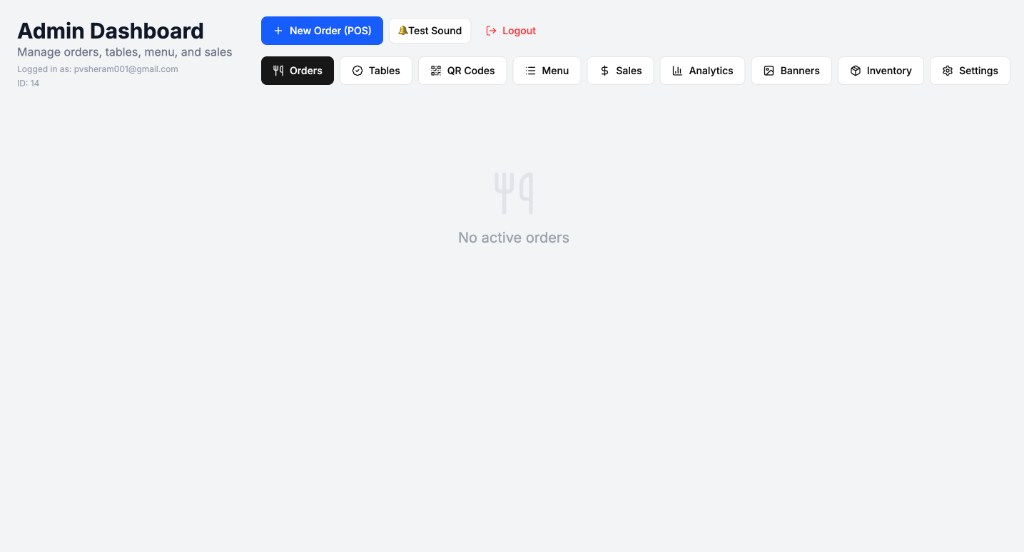
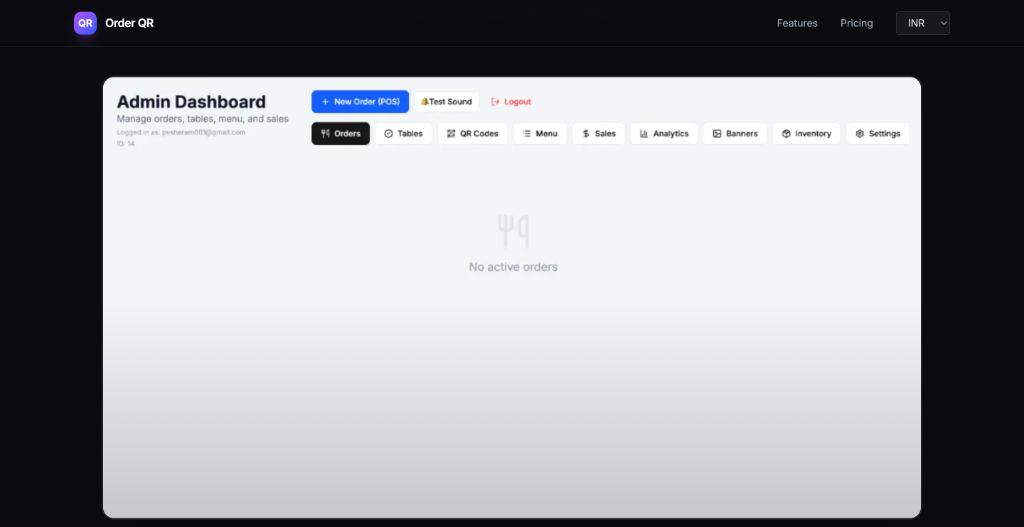
feat: update landing page assets and add hero animation

diff --git a/src/app/page.tsx b/src/app/page.tsx
@@ -2,7 +2,7 @@
 
 import React, { useState, useMemo } from 'react';
 import Image from 'next/image';
-import { ChefHat, Smartphone, CreditCard, TrendingUp, Globe, Zap, Check } from 'lucide-react';
+import { ChefHat, Smartphone, CreditCard, TrendingUp, Globe, Zap, Check, QrCode } from 'lucide-react';
 import { motion } from 'framer-motion';
 
 export default function LandingPage() {
@@ -172,32 +172,68 @@ export default function LandingPage() {
                     </motion.div>
                 </div>
 
-                {/* Hero Mockup */}
-                <motion.div
-                    initial={{ opacity: 0, y: 100, rotateX: 20 }}
-                    animate={{ opacity: 1, y: 0, rotateX: 0 }}
-                    transition={{ duration: 1, delay: 0.2 }}
-                    className="mt-20 max-w-6xl mx-auto relative perspective-1000"
-                >
+                {/* Hero Mockup with "Ordering by QR" Animation */}
+                <div className="mt-20 max-w-6xl mx-auto relative perspective-1000 h-[600px] md:h-[800px] flex items-center justify-center">
                     <div className="absolute inset-0 bg-gradient-to-t from-purple-500/20 via-blue-500/10 to-transparent blur-3xl -z-10 transform scale-150 opacity-50"></div>
-                    <div className="relative rounded-2xl border border-white/10 shadow-2xl overflow-hidden bg-[#0B0C10] ring-1 ring-white/10">
+
+                    {/* Dashboard (Background) */}
+                    <motion.div
+                        initial={{ opacity: 0, y: 100, rotateX: 20, scale: 0.9 }}
+                        animate={{ opacity: 1, y: 0, rotateX: 0, scale: 1 }}
+                        transition={{ duration: 1, delay: 0.2 }}
+                        className="absolute top-20 left-0 right-0 rounded-2xl border border-white/10 shadow-2xl overflow-hidden bg-[#0B0C10] ring-1 ring-white/10 z-0"
+                    >
                         <div className="absolute top-0 left-0 right-0 h-px bg-gradient-to-r from-transparent via-white/20 to-transparent"></div>
                         <Image
                             src="/dashboard-counter.png"
                             alt="Counter Dashboard"
                             width={1920}
                             height={1080}
-                            className="w-full h-auto object-cover"
+                            className="w-full h-auto object-cover opacity-80"
                             priority
                         />
-                        {/* Overlay gradient for better text readability if needed, or just aesthetic */}
-                        <div className="absolute inset-0 bg-gradient-to-t from-[#0B0C10] via-transparent to-transparent opacity-20"></div>
-                    </div>
-                </motion.div>
+                        <div className="absolute inset-0 bg-gradient-to-t from-[#0B0C10] via-transparent to-transparent opacity-40"></div>
+                    </motion.div>
+
+                    {/* Phone (Foreground) - Simulating QR Scan/Order */}
+                    <motion.div
+                        initial={{ opacity: 0, y: 200, x: 100 }}
+                        animate={{ opacity: 1, y: 50, x: 50 }}
+                        transition={{ duration: 1, delay: 0.6, type: "spring" }}
+                        className="absolute bottom-0 right-10 md:right-20 w-64 md:w-80 z-20"
+                    >
+                        <div className="relative rounded-[2.5rem] border-8 border-gray-900 bg-gray-900 shadow-2xl overflow-hidden">
+                            {/* Notch */}
+                            <div className="absolute top-0 left-1/2 transform -translate-x-1/2 w-32 h-6 bg-gray-900 rounded-b-2xl z-30"></div>
+
+                            {/* Screen Content */}
+                            <Image
+                                src="/dashboard-menu.png"
+                                alt="Mobile Menu"
+                                width={375}
+                                height={812}
+                                className="w-full h-auto"
+                            />
+
+                            {/* Scan Animation Overlay */}
+                            <motion.div
+                                initial={{ opacity: 0 }}
+                                animate={{ opacity: [0, 1, 0] }}
+                                transition={{ duration: 2, delay: 1.5, repeat: Infinity, repeatDelay: 5 }}
+                                className="absolute inset-0 bg-black/60 flex items-center justify-center z-40"
+                            >
+                                <div className="text-center">
+                                    <QrCode className="w-16 h-16 text-white mx-auto mb-4 animate-pulse" />
+                                    <div className="text-white font-bold">Scanning QR...</div>
+                                </div>
+                            </motion.div>
+                        </div>
+                    </motion.div>
+                </div>
             </section>
 
             {/* Features Bento Grid */}
-            <section id="features" className="max-w-7xl mx-auto px-6 py-32">
+            <section id="features" className="max-w-7xl mx-auto px-6 py-32 relative z-20 bg-[#0B0C10]">
                 <div className="text-center mb-20">
                     <motion.h2
                         initial={{ opacity: 0, y: 20 }}
